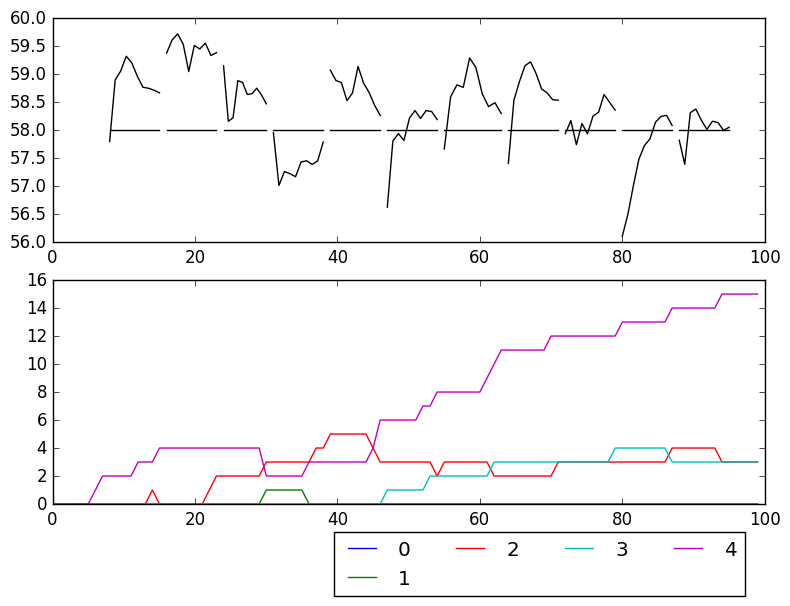
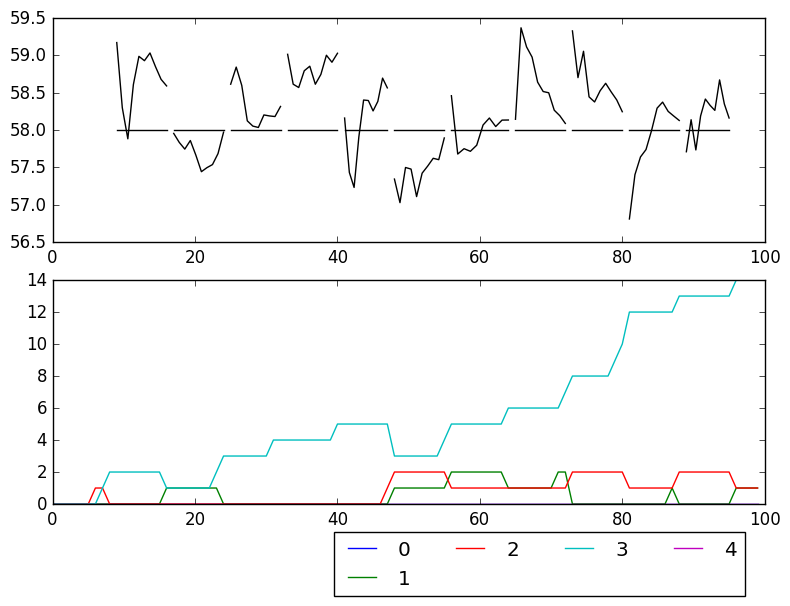
default stockpile - possible to have undefined intervals in the stockpile thresholds

diff --git a/ea/sim_eval.py b/ea/sim_eval.py
@@ -20,8 +20,7 @@ class Stockyard(object):
 
     piles = None # rehandle stockpiles
     npiles = 0 # number of rehandle stockpiles
-    piles_n = None # number of blocks on stockpiles at timestep n 
-    
+    piles_n = None # number of blocks on stockpiles at timestep n     
     
     def __init__(self,low, high, num_piles,ntime):
         
@@ -34,23 +33,24 @@ class Stockyard(object):
         
         # list of empty stacks: empty stockpiles
         self.stocks = [[] for i in range(num_piles)] #a = [[0] * number_cols for i in range(number_rows)]
-        self.example_thresholds_3()
+        self.example_thresholds()
         
 
 
-    def example_thresholds_3(self):
-        self.npiles = 3
+    def example_thresholds(self):
+        self.npiles = 5
         self.stocks_limits = np.zeros((self.npiles,2))
+        # pile zero is default catch all pile / dump - not used to reclaim
         self.stocks_limits = np.array([\
-                                       [55,56],\
-                                       [56,57],\
-                                       [57,59],\
-                                       [59,60],\
-                                       [60,65]])
-        
-        
+                                       [0,0],\
+                                       [55,57.5],\
+                                       [57.5,59],\
+                                       [59,63],\
+                                       [63,66]])
+        # min = 55, max = 66
+        # self.stocks_limits = np.array([60,61,62,63,65]) 
             
-    def example_even_spaced_stockpile_thresholds(self, low, high,num_piles):
+    def example_even_spaced_stockpile_thresholds(self, low, high, num_piles):
         # thresholds to accept material
         self.stocks_limits = np.zeros((num_piles,2))  
         
@@ -71,22 +71,28 @@ class Stockyard(object):
         
     def add_block(self, block, tt):
         # get stockpile index
-        pile_index = -1
-        for i in range(len(self.stocks)):
-            if ( block >= self.stocks_limits[i][0] and block < self.stocks_limits[i][1] ) :
-                pile_index = i
+        # pile zero is default catch all pile / dump 
+        # can set to -1 if not using catch all pile and raise exception or define other behaviour
+        pile_index = 0
+        for ind in range(1,len(self.stocks)):
+            if ( block >= self.stocks_limits[ind][0] and block < self.stocks_limits[ind][1] ) :
+                pile_index = ind
                 break
 
-        if pile_index is -1: 
-            raise Exception (("can't find stockpile for grade %s"), block) 
-        else:
-            self.stocks[pile_index].append(block)
-            self.piles_n [pile_index,tt] = self.piles_n [pile_index,tt] + 1
+#        if pile_index is -1:
+#            pile_index = 0            
+#             raise Exception (("can't find stockpile for grade %s"), block) 
+ #       else:
+
+        self.stocks[pile_index].append(block)
+        self.piles_n [pile_index,tt] = self.piles_n [pile_index,tt] + 1
+        
         return pile_index
 
     def available_stocks(self):
         av = []
-        for i in range(len(self.stocks)) :
+        # pile zero is currently a catch all pile / dump - not used to reclaim just to track blocks that fall through thresholds as defined in stockpile list
+        for i in range(1,len(self.stocks)) :
             if len(self.stocks[i]) > 0 :
                 av.append(i)
         return av
@@ -94,7 +100,6 @@ class Stockyard(object):
     def get_block(self, target_grade, tt):
         # which stockpiles have material?
         available = self.available_stocks()
-        
         # if no stocks at all just return None
         if not available:
             return None
@@ -308,10 +313,10 @@ class Stockpile_sim(object):
                     
             tt = tt + 1
         self.build_start = np.append(self.build_start, self.ntime)
-        print self.build_quality_deviation()
+        print self.eval()
         
 
-    def build_quality_deviation(self):
+    def eval(self):
 
 #        s = stockpile_sim(time_periods=500,grade_target=58.5)
 #        s.run()

diff --git a/ea/ga.py b/ea/ga.py
@@ -1,0 +1,56 @@
+# -*- coding: utf-8 -*-
+"""
+Created on Fri May 12 15:55:52 2017
+
+@author: ag
+"""
+
+import array
+import random
+
+import numpy
+
+from deap import algorithms
+from deap import base
+from deap import creator
+from deap import tools
+
+creator.create("FitnessMax", base.Fitness, weights=(-1.0,))
+creator.create("Individual", array.array, typecode='f', fitness=creator.FitnessMax)
+
+toolbox = base.Toolbox()
+
+# Attribute generator
+toolbox.register("attr_bool", random.randint, 0, 1)
+
+# Structure initializers
+toolbox.register("individual", tools.initRepeat, creator.Individual, toolbox.attr_bool, 100)
+toolbox.register("population", tools.initRepeat, list, toolbox.individual)
+
+def evalOneMax(individual):
+    return sum(individual),
+
+toolbox.register("evaluate", evalOneMax)
+toolbox.register("mate", tools.cxTwoPoint)
+toolbox.register("mutate", tools.mutFlipBit, indpb=0.05)
+toolbox.register("select", tools.selTournament, tournsize=3)
+
+def main():
+    random.seed(64)
+    
+    pop = toolbox.population(n=300)
+    hof = tools.HallOfFame(1)
+    stats = tools.Statistics(lambda ind: ind.fitness.values)
+    stats.register("avg", numpy.mean)
+    stats.register("std", numpy.std)
+    stats.register("min", numpy.min)
+    stats.register("max", numpy.max)
+    
+    pop, log = algorithms.eaSimple(pop, toolbox, cxpb=0.5, mutpb=0.2, ngen=40, 
+                                   stats=stats, halloffame=hof, verbose=True)
+    
+    return pop, log, hof
+
+if __name__ == "__main__":
+    main()
+
